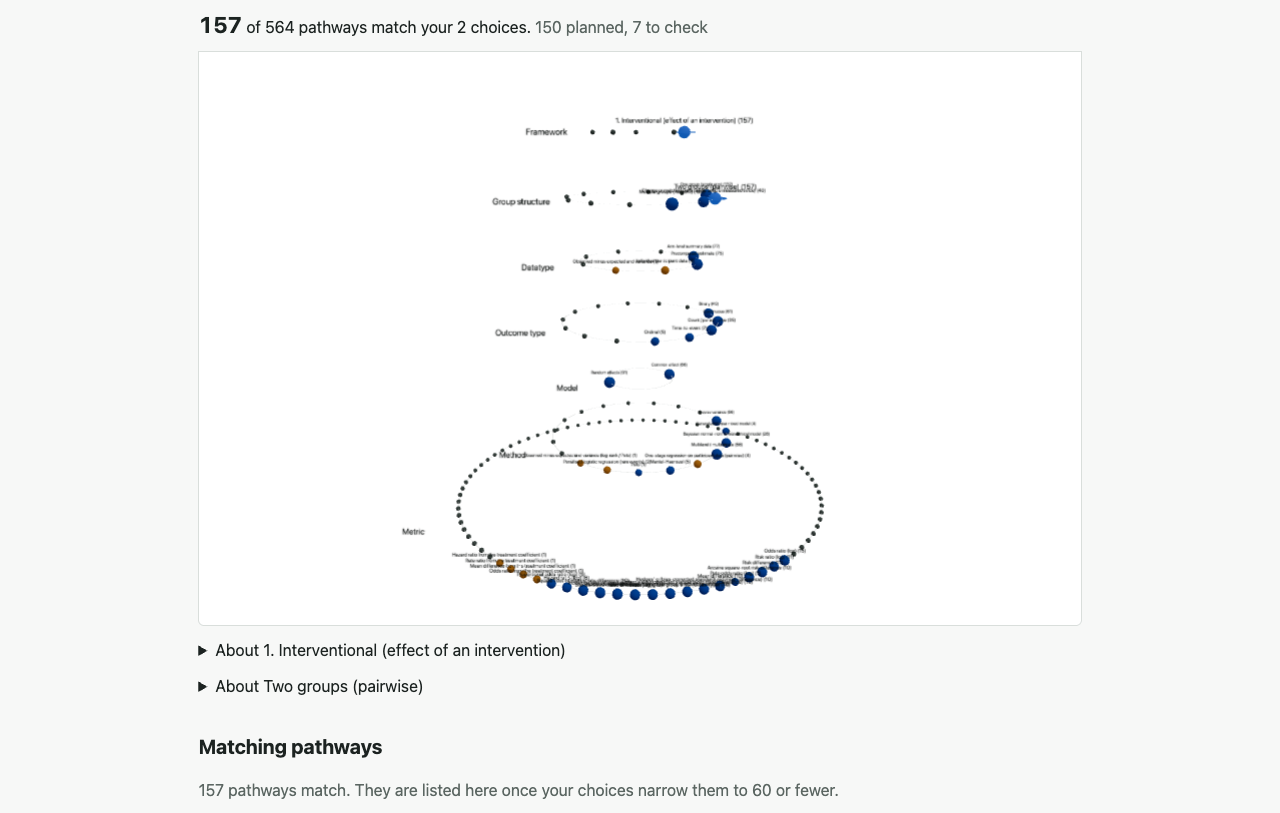
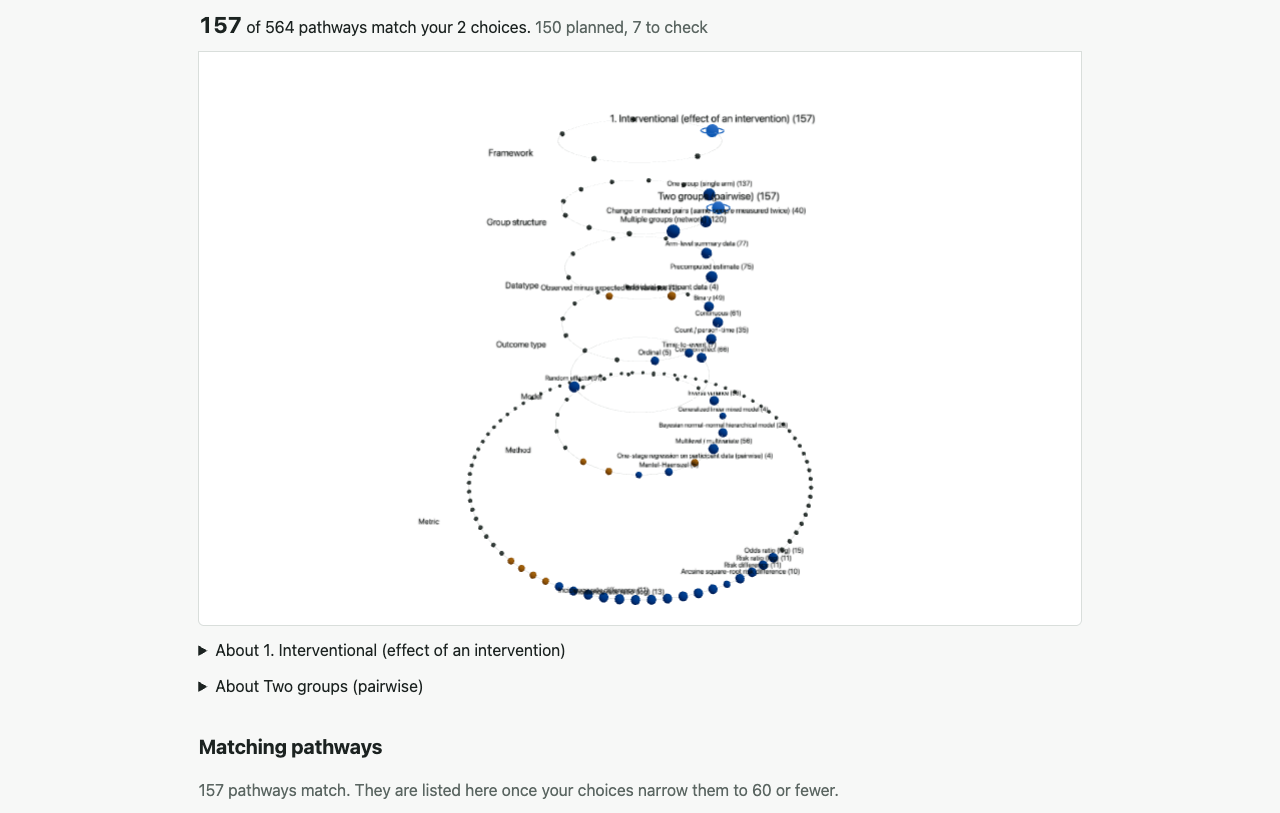
Release 0.1.0: changelog and the new 3D screenshot (#90)
Dates 0.1.0, adds #85, #87 and #89, and replaces the README's 3D
screenshot with one taken after the label fix (part of #8).

diff --git a/CHANGELOG.md b/CHANGELOG.md
@@ -4,7 +4,7 @@ Each release lists what changed, with the pull requests behind it. The map
 itself changes only through audited pull requests, and each map change
 explains its effect on the pathways.
 
-## 0.1.0 (proposed, not yet released)
+## 0.1.0 (2026-11-17)
 
 The first release: the map of analysis pathways, and three apps to explore
 it. Nothing runs analyses yet; no pathway is runnable.
@@ -33,7 +33,11 @@ it. Nothing runs analyses yet; no pathway is runnable.
 - "Why not?" for every node that doesn't fit the choices, citing the rule or
   source behind it where there is one (#44, #46).
 - A 3D view of the same nodes and counts, which falls back to 2D without
-  WebGL 2 (#71).
+  WebGL 2 (#71). Crowded layers label only their busiest nodes, so the labels
+  can be read (#89).
+- The matching-pathways table fits narrow screens: Status first, the tiers
+  every match shares in one line above it, and a card for each row on a phone.
+  A chosen node carries a check mark as well as its colour (#85).
 - A setting to show only runnable pathways, which stays off until a pathway
   is runnable (#72).
 
@@ -62,6 +66,8 @@ it. Nothing runs analyses yet; no pathway is runnable.
   small ones that change only docs, tests or a few lines outside the map
   (#26, #28).
 - Faster frontend tests (#50).
+- A favicon, and wording that matches the project's rules: what makes a
+  pathway runnable, and why a card may have no teaching text (#87).
 - A generated record of every npm package with its licence, checked to be
   GPL-compatible for what the app uses, and a list of the npm advisories
   still open in the build and test tools, with why (#75).
@@ -75,4 +81,5 @@ it. Nothing runs analyses yet; no pathway is runnable.
   meta-analysis, which Cochrane chapter 26 doesn't describe; #25, #59).
 - Penalised logistic regression's models, and the wording of a note on
   bayesmeta, still need confirming from their sources (#58).
-- In the 3D view, the labels are small until a node is hovered or chosen.
+- In the 3D view, a few long labels still overlap where nodes sit close
+  together; hovering a node shows its own.
